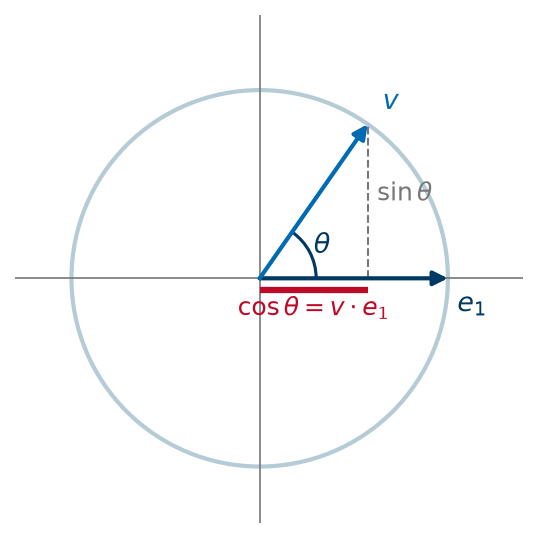
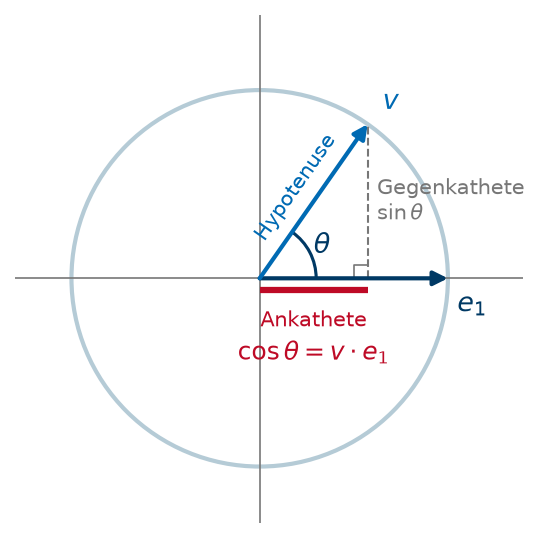
Lineare Algebra: Ankathete und Hypotenuse am Einheitskreis
Der Winkel-Abschnitt baut das rechtwinklige Dreieck aus Nullpunkt, v und
Lotfußpunkt v_1 e_1 auf und leitet cos θ = Ankathete/Hypotenuse = v_1/‖v‖
als Spezialfall w = e_1 der Definition her; sin θ = v_2 nur in der Ebene.
Das Einheitskreis-Bild beschriftet Ankathete, Gegenkathete, Hypotenuse und
den rechten Winkel. Der Embedding-Satz sagt jetzt "invariant unter solchen
Transformationen".

diff --git a/devnotes/make_figures.py b/devnotes/make_figures.py
@@ -967,8 +967,13 @@ def la_einheitskreis():
     _la_pfeil(ax, v, HHU_BLUE, r"$v$")
     ax.plot([v[0], v[0]], [0, v[1]], color=GREY, ls="--", lw=1)
     ax.plot([0, v[0]], [-0.06, -0.06], color=HHU_RED, lw=3, solid_capstyle="butt")
-    ax.text(v[0] / 2, -0.2, r"$\cos\theta = v \cdot e_1$", color=HHU_RED, ha="center", fontsize=12)
-    ax.text(v[0] + 0.05, v[1] / 2, r"$\sin\theta$", color=GREY, fontsize=12)
+    q = 0.07  # rechter Winkel am Lotfußpunkt
+    ax.plot([v[0] - q, v[0] - q, v[0]], [0, q, q], color=GREY, lw=0.8)
+    ax.text(v[0] / 2, -0.17, "Ankathete", color=HHU_RED, ha="center", va="top", fontsize=10)
+    ax.text(v[0] / 2, -0.33, r"$\cos\theta = v \cdot e_1$", color=HHU_RED, ha="center", va="top", fontsize=12)
+    ax.text(v[0] + 0.05, v[1] / 2, "Gegenkathete\n" + r"$\sin\theta$", color=GREY, fontsize=10, va="center")
+    ax.text(v[0] / 2 - 0.05, v[1] / 2 + 0.04, "Hypotenuse", color=HHU_BLUE, fontsize=10,
+            rotation=np.degrees(th), rotation_mode="anchor", ha="center", va="bottom")
     _la_winkel(ax, np.array([1, 0]), v, 0.3)
     save(fig, "la-einheitskreis")
 

diff --git a/part-grundlagen/hintergrundwissen-lineare-algebra.md b/part-grundlagen/hintergrundwissen-lineare-algebra.md
@@ -130,15 +130,26 @@ $$
 $$
 :::
 
-Für Einheitsvektoren ist der Nenner $1$, und mit $w = e_1$ wird die Definition zur
-Schulgeometrie: $\cos \theta = v \cdot e_1 = v_1$ ist die $x$-Koordinate des Punktes $v$
-auf dem Einheitskreis.
+Mit $w = e_1$ wird die Definition zur Schulgeometrie. Der Nullpunkt, der Punkt $v$ und
+sein Lotfußpunkt $v_1 e_1$ auf der $x$-Achse bilden ein rechtwinkliges Dreieck. Seine
+Hypotenuse ist $v$ selbst, mit Länge $\|v\|$. Die Ankathete an $\theta$ liegt auf der
+$x$-Achse und hat (für spitzes $\theta$) die Länge $v_1$. Also ist
+
+$$
+\cos \theta = \frac{\text{Ankathete}}{\text{Hypotenuse}} = \frac{v_1}{\|v\|}
+= \frac{v \cdot e_1}{\|v\| \, \|e_1\|},
+$$
+
+genau die Definition oben. Für Einheitsvektoren ist der Nenner $1$, und
+$\cos \theta = v \cdot e_1 = v_1$ ist die $x$-Koordinate des Punktes $v$ auf dem
+Einheitskreis; in der Ebene ist $\sin \theta = v_2$ die Länge der Gegenkathete.
 
 :::{figure} ../images/la-einheitskreis.png
 :width: 50%
 
-Für einen Einheitsvektor $v$ ist $\cos \theta = v \cdot e_1$ seine erste Komponente: die
-Strecke, die $v$ auf die $x$-Achse wirft.
+Für einen Einheitsvektor $v$ hat die Hypotenuse die Länge $1$, und $\cos \theta = v \cdot e_1$
+ist die Länge der Ankathete: die erste Komponente von $v$, die Strecke, die $v$ auf die
+$x$-Achse wirft.
 :::
 
 Dass der Bruch zwischen $-1$ und $1$ liegt, also überhaupt ein Kosinus sein kann, ist die
@@ -350,7 +361,7 @@ flach zeichnen.
 Für Embeddings heißt das: Dreht man alle Embeddings mit derselben orthogonalen Matrix,
 ändern sich weder Längen noch Kosinusähnlichkeiten. Ein Verfahren, das nur Skalarprodukte
 von Embeddings benutzt – das [Kapitel „word2vec“](../part-representation-learning/16-word2vec.md)
-beschreibt eines –, kann zwei solche Lösungen nicht auseinanderhalten.
+beschreibt eines –, ist invariant unter solchen Transformationen.
 
 :::{admonition} Weiterlesen
 :class: seealso
